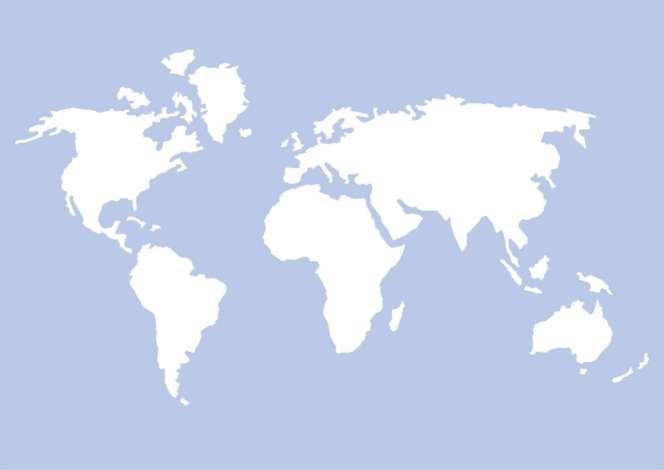
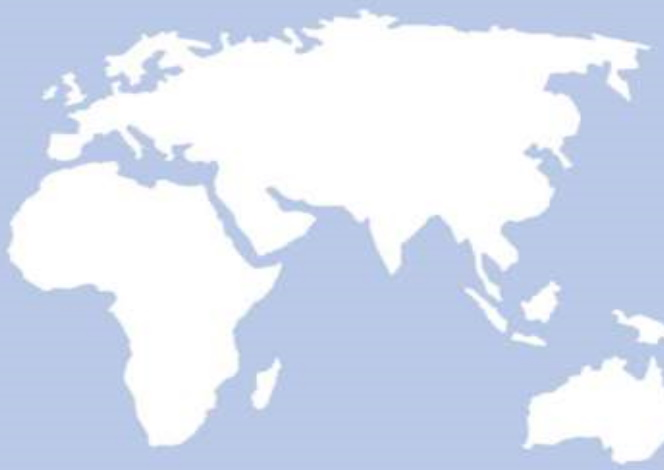
the first world

diff --git a/EvolutionSimulator/core/src/com/evolution/simulator/Main.java b/EvolutionSimulator/core/src/com/evolution/simulator/Main.java
@@ -2,38 +2,151 @@ package com.evolution.simulator;
 
 import com.badlogic.gdx.ApplicationAdapter;
 import com.badlogic.gdx.Gdx;
+import com.badlogic.gdx.Input;
 import com.badlogic.gdx.graphics.GL20;
+import com.badlogic.gdx.graphics.OrthographicCamera;
 import com.badlogic.gdx.graphics.Texture;
 import com.badlogic.gdx.graphics.g2d.SpriteBatch;
+import com.badlogic.gdx.input.GestureDetector;
+import com.badlogic.gdx.math.MathUtils;
+import com.badlogic.gdx.math.Vector2;
+import com.badlogic.gdx.utils.viewport.ScreenViewport;
+import com.badlogic.gdx.utils.viewport.Viewport;
 import com.evolution.simulator.BackEnd.EvolutionsSimulator;
+import com.evolution.simulator.BackEnd.virtualtileworld.LandType;
 import com.evolution.simulator.FrontEnd.tilemaprenderer.SimulationsRenderer;
 
-public class Main extends ApplicationAdapter {
-	EvolutionsSimulator evolutionsSimulator=new EvolutionsSimulator();
-	SimulationsRenderer simulationsRenderer=new SimulationsRenderer(evolutionsSimulator);
-	SpriteBatch batch;
-	Texture img;
+public class Main extends ApplicationAdapter implements GestureDetector.GestureListener {
+	EvolutionsSimulator evolutionsSimulator;
+	SimulationsRenderer simulationsRenderer;
+	public static SpriteBatch batch;
+	public static Texture img;
+	public static Texture watertile;
+	public static Texture LandTile;
+	public static OrthographicCamera cam;
+	public static Viewport viewport;
+	public static float aspectRatio;
+	public static float height,width;
 	
 	@Override
 	public void create () {
+
+
+
+		Gdx.input.setInputProcessor(new GestureDetector(this));
+
+		cam = new OrthographicCamera((float)Gdx.graphics.getWidth(), (float)Gdx.graphics.getHeight());
+		viewport = new ScreenViewport(cam);
+		evolutionsSimulator=new EvolutionsSimulator();
+		simulationsRenderer=new SimulationsRenderer(evolutionsSimulator);
 		batch = new SpriteBatch();
 		img = new Texture("Land.jpg");
+		watertile=new Texture("WaterTile.png");
+		LandTile=new Texture("LandTile.jpg");
+		cam.position.set((float)(Gdx.graphics.getWidth() / 2), (float)(Gdx.graphics.getHeight() / 2), 0.0F);
+
 	}
 
 	@Override
 	public void render () {
+		handleInput();
+		cam.update();
+		batch.setProjectionMatrix(cam.combined);
+
 		evolutionsSimulator.dostep();
-		simulationsRenderer.draw();
-		Gdx.gl.glClearColor(1, 0, 0, 1);
+		Gdx.gl.glClearColor(0, 0, 0, 1);
 		Gdx.gl.glClear(GL20.GL_COLOR_BUFFER_BIT);
-		batch.begin();
-		batch.draw(img, 0, 0);
-		batch.end();
+		simulationsRenderer.draw();
+
+
 	}
-	
+
+	private void handleInput() {
+		if (Gdx.input.isKeyPressed(Input.Keys.A)) {
+			cam.zoom += 0.02;
+		}
+		if (Gdx.input.isKeyPressed(Input.Keys.Q)) {
+			cam.zoom -= 0.02;
+		}
+		if (Gdx.input.isKeyPressed(Input.Keys.LEFT)) {
+			cam.translate(-3, 0, 0);
+		}
+		if (Gdx.input.isKeyPressed(Input.Keys.RIGHT)) {
+			cam.translate(3, 0, 0);
+		}
+		if (Gdx.input.isKeyPressed(Input.Keys.DOWN)) {
+			cam.translate(0, -3, 0);
+		}
+		if (Gdx.input.isKeyPressed(Input.Keys.UP)) {
+			cam.translate(0, 3, 0);
+		}
+		int rotationSpeed = 1;
+		if (Gdx.input.isKeyPressed(Input.Keys.W)) {
+			cam.rotate(-rotationSpeed, 0, 0, 1);
+		}
+		if (Gdx.input.isKeyPressed(Input.Keys.E)) {
+			cam.rotate(rotationSpeed, 0, 0, 1);
+		}
+
+		cam.zoom = MathUtils.clamp(cam.zoom, 0f, 5f);
+
+	}
+
 	@Override
 	public void dispose () {
 		batch.dispose();
 		img.dispose();
+	}
+
+	@Override
+	public boolean touchDown(float x, float y, int pointer, int button) {
+		return false;
+	}
+
+	@Override
+	public boolean tap(float x, float y, int count, int button) {
+		return false;
+	}
+
+	@Override
+	public boolean longPress(float x, float y) {
+		return false;
+	}
+
+	@Override
+	public boolean fling(float velocityX, float velocityY, int button) {
+		return false;
+	}
+
+	@Override
+	public boolean pan(float x, float y, float deltaX, float deltaY) {
+		return false;
+	}
+
+	@Override
+	public boolean panStop(float x, float y, int pointer, int button) {
+		return false;
+	}
+
+	@Override
+	public boolean zoom(float initialDistance, float distance) {
+		System.out.println("zoom");
+		if (initialDistance >= distance) {
+			cam.zoom += 0.02;
+		} else {
+			cam.zoom -= 0.02;
+		}
+
+		return false;
+	}
+
+	@Override
+	public boolean pinch(Vector2 initialPointer1, Vector2 initialPointer2, Vector2 pointer1, Vector2 pointer2) {
+		return false;
+	}
+
+	@Override
+	public void pinchStop() {
+
 	}
 }

diff --git a/EvolutionSimulator/core/src/com/evolution/simulator/FrontEnd/tilemaprenderer/TileMapRenderer.java b/EvolutionSimulator/core/src/com/evolution/simulator/FrontEnd/tilemaprenderer/TileMapRenderer.java
@@ -1,7 +1,31 @@
 package com.evolution.simulator.FrontEnd.tilemaprenderer;
 
-public class TileMapRenderer {
-    public void draw(){
+import com.badlogic.gdx.graphics.Texture;
+import com.evolution.simulator.BackEnd.EvolutionsSimulator;
+import com.evolution.simulator.Main;
 
+public class TileMapRenderer {
+
+    public void draw(EvolutionsSimulator evolutionsSimulator){
+        for(int x=0;x<evolutionsSimulator.getWorldWidth();x++){
+            for(int y=0;y< evolutionsSimulator.getWorldHeight();y++){
+                Main.batch.begin();
+                switch (evolutionsSimulator.getWorld().getTiles().get(x).get(y).getLandType()){
+                    case NONE:{
+
+                        break;
+                    }
+                    case LAND:{
+                        Main.batch.draw(Main.LandTile, x*evolutionsSimulator.getWorld().getTileSize(),y*evolutionsSimulator.getWorld().getTileSize(),evolutionsSimulator.getWorld().getTileSize(),evolutionsSimulator.getWorld().getTileSize());
+                        break;
+                    }
+                    case WATER:{
+                        Main.batch.draw(Main.watertile, x*evolutionsSimulator.getWorld().getTileSize(),y*evolutionsSimulator.getWorld().getTileSize(),evolutionsSimulator.getWorld().getTileSize(),evolutionsSimulator.getWorld().getTileSize());
+                        break;
+                    }
+                }
+                Main.batch.end();
+            }
+        }
     }
 }

diff --git a/EvolutionSimulator/core/src/com/evolution/simulator/BackEnd/EvolutionsSimulator.java b/EvolutionSimulator/core/src/com/evolution/simulator/BackEnd/EvolutionsSimulator.java
@@ -5,8 +5,8 @@ import com.evolution.simulator.BackEnd.virtualtileworld.VirtualTileWorld;
 import com.evolution.simulator.BackEnd.virtualtileworld.WorldGenerator;
 
 public class EvolutionsSimulator {
-    int worldWidth=20;
-    int worldHeight=20;
+    int worldWidth=100;
+    int worldHeight=100;
     public VirtualTileWorld world=new VirtualTileWorld(worldWidth,worldHeight,10);
     public EvolutionsSimulator(){
         WorldGenerator worldGenerator=new WorldGenerator("C:\\Users\\Felix\\Documents\\GitHub\\EvolutionSimulator\\EvolutionSimulator\\core\\assets\\Land.jpg",worldWidth,worldHeight);
@@ -18,5 +18,17 @@ public class EvolutionsSimulator {
      */
     public void dostep(){
 
+    }
+
+    public int getWorldHeight() {
+        return worldHeight;
+    }
+
+    public int getWorldWidth() {
+        return worldWidth;
+    }
+
+    public VirtualTileWorld getWorld() {
+        return world;
     }
 }

diff --git a/EvolutionSimulator/core/src/com/evolution/simulator/BackEnd/virtualtileworld/WorldGenerator.java b/EvolutionSimulator/core/src/com/evolution/simulator/BackEnd/virtualtileworld/WorldGenerator.java
@@ -35,9 +35,9 @@ public class WorldGenerator {
             for(int y=0;y<imageHeight;y++){
             System.out.println(getRed(x,y));
             if(getRed(x,y)>200){
-                vtw.getTiles().get(x).get(y).setLandType(LandType.LAND);
+                vtw.getTiles().get(x).get(imageHeight-y-1).setLandType(LandType.LAND);
             }else{
-                vtw.getTiles().get(x).get(y).setLandType(LandType.WATER);
+                vtw.getTiles().get(x).get(imageHeight-y-1).setLandType(LandType.WATER);
             }
             }
         }

diff --git a/EvolutionSimulator/core/src/com/evolution/simulator/FrontEnd/tilemaprenderer/SimulationsRenderer.java b/EvolutionSimulator/core/src/com/evolution/simulator/FrontEnd/tilemaprenderer/SimulationsRenderer.java
@@ -2,7 +2,6 @@ package com.evolution.simulator.FrontEnd.tilemaprenderer;
 
 import com.evolution.simulator.BackEnd.EvolutionsSimulator;
 
-import java.text.SimpleDateFormat;
 
 public class SimulationsRenderer {
     private TileMapRenderer tileMapRenderer=new TileMapRenderer();
@@ -11,6 +10,6 @@ public class SimulationsRenderer {
         this.evolutionsSimulator=evolutionsSimulator;
     }
     public void draw(){
-        tileMapRenderer.draw();
+        tileMapRenderer.draw(evolutionsSimulator);
     }
 }

diff --git a/EvolutionSimulator/desktop/src/com/evolution/simulator/desktop/DesktopLauncher.java b/EvolutionSimulator/desktop/src/com/evolution/simulator/desktop/DesktopLauncher.java
@@ -7,6 +7,8 @@ import com.evolution.simulator.Main;
 public class DesktopLauncher {
 	public static void main (String[] arg) {
 		LwjglApplicationConfiguration config = new LwjglApplicationConfiguration();
+		config.width=800;
+		config.height=600;
 		new LwjglApplication(new Main(), config);
 	}
 }

diff --git a/EvolutionSimulator/core/src/com/evolution/simulator/BackEnd/virtualtileworld/Tile.java b/EvolutionSimulator/core/src/com/evolution/simulator/BackEnd/virtualtileworld/Tile.java
@@ -9,4 +9,8 @@ public class Tile {
     public void setLandType(LandType landType) {
         this.landType = landType;
     }
+
+    public LandType getLandType() {
+        return landType;
+    }
 }
